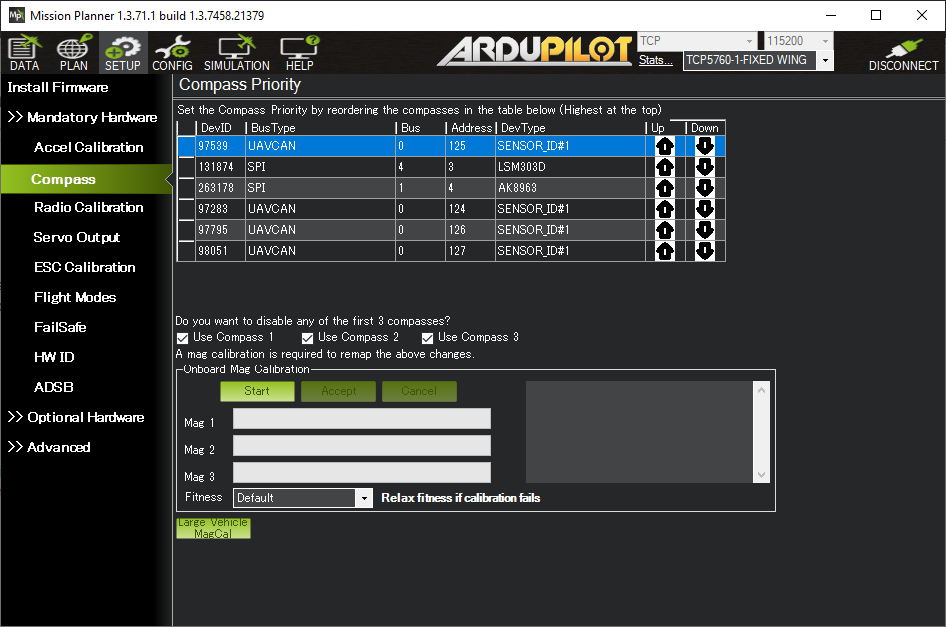
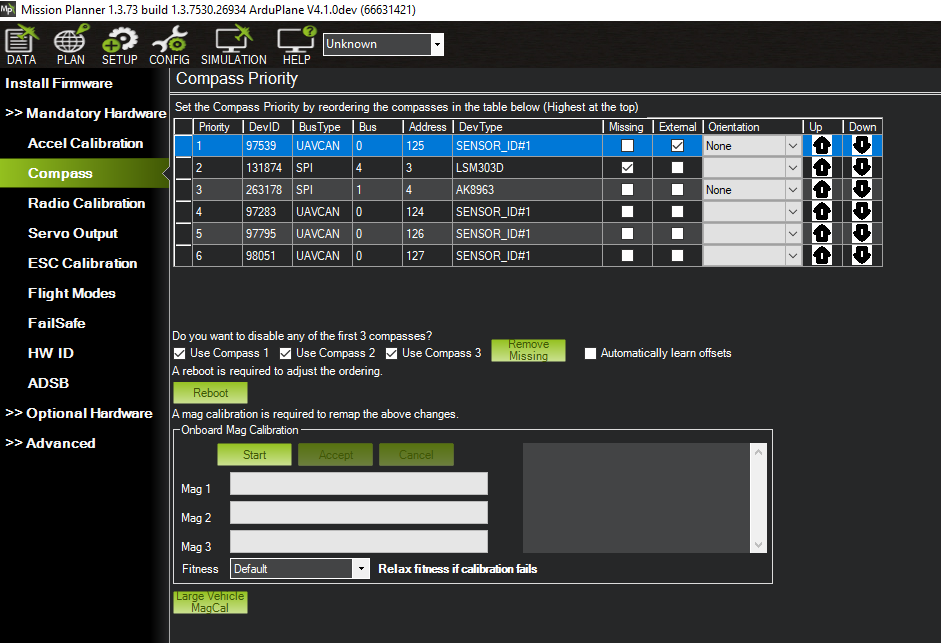
Update advanced compass information

diff --git a/common/source/docs/common-compass-setup-advanced.rst b/common/source/docs/common-compass-setup-advanced.rst
@@ -33,17 +33,28 @@ Compass Settings
 
 The *Mission Planner Compass Setup screen* can be found in menu
 **Setup \| Mandatory Hardware \| Compass** in the sidebar. This
-screen is used for setting compass priority and use. No other settings are required for normal use.
+screen is used for setting compass ordering, priority, calibration, and use. No other settings are required for normal use.
 
 .. figure:: ../../../images/CompassCalibration_Onboard.png
    :target: ../_images/CompassCalibration_Onboard.png
 
-   Mission Planner: Compass Calibration
+   Mission Planner: Advanced Compass Setup and Calibration
 
-Compass Priority
-----------------
 
-All the attached compasses that the autopilot discovered during initialization are shown in the upper area of the page. You can determine the ordering, from primary on down, by using the arrow keys next to the compass. The first in the list is will be the one used, unless there is a problem. In which case, either the second or third listed, if enabled, will be used, automatically determined by the autopilot as to which is giving the best readings.
+Compass Ordering and Priority
+-----------------------------
+
+During boot, ArduPilot automatically detects the compasses present in the system, adds them to a list, and assigns the first three a priority (1-3) linked to their DEV ID (``COMPASS_PRIOx_ID``), according to the order in which they are discovered. This priority determines which compass is used by the EKF lanes. The primary compass (highest priority, 1) will be used by all lanes, and fallback to the next viable compass in the first three priorities, if the primary becomes unhealthy.
+
+The list of discovered compasses and their priority is maintained across boots.
+
+If a user wishes to change to a different compass for one of the three priorities, he can change the ``COMPASS_PRIOx_ID`` to that compass's ``COMPASS_DEV_IDx`` ID value. If a ``COMPASS_PRIOx_ID`` is set to zero, the compasses will be moved up contiguously, in order, to fill that priority slot on the next reboot. This is easily done in Mission Planner with the arrows on the right side.
+
+.. warning:: never change a compass's ``COMPASS_DEV_IDx`` ID value manually and then reboot!
+
+If a previously discovered compass is missing or not detected on boot, and is in one of the three priority positions, a pre-arm failure will occur warning the user. The user will need to either remove the compass from the priority position, or correct the problem in order to prevent the pre-arm failure. Mission Planner provides a button to remove an undetected compass on the above screen.
+
+.. note:: Compasses not present or detected during a calibration will automatically be removed.
 
 Compass Enables
 ---------------
